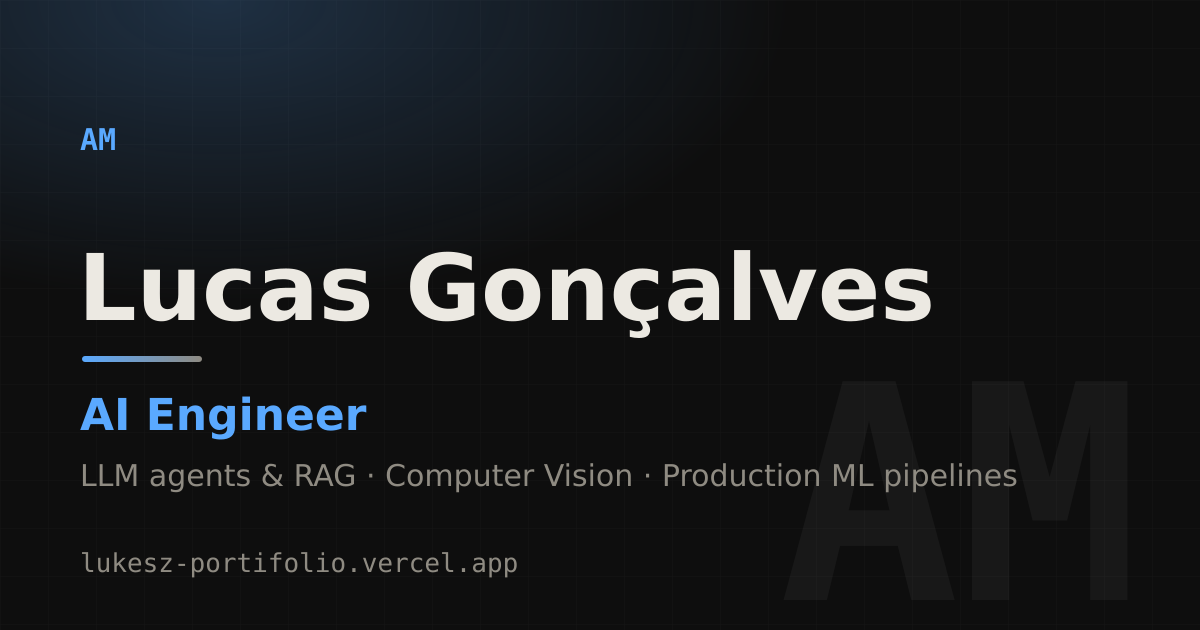
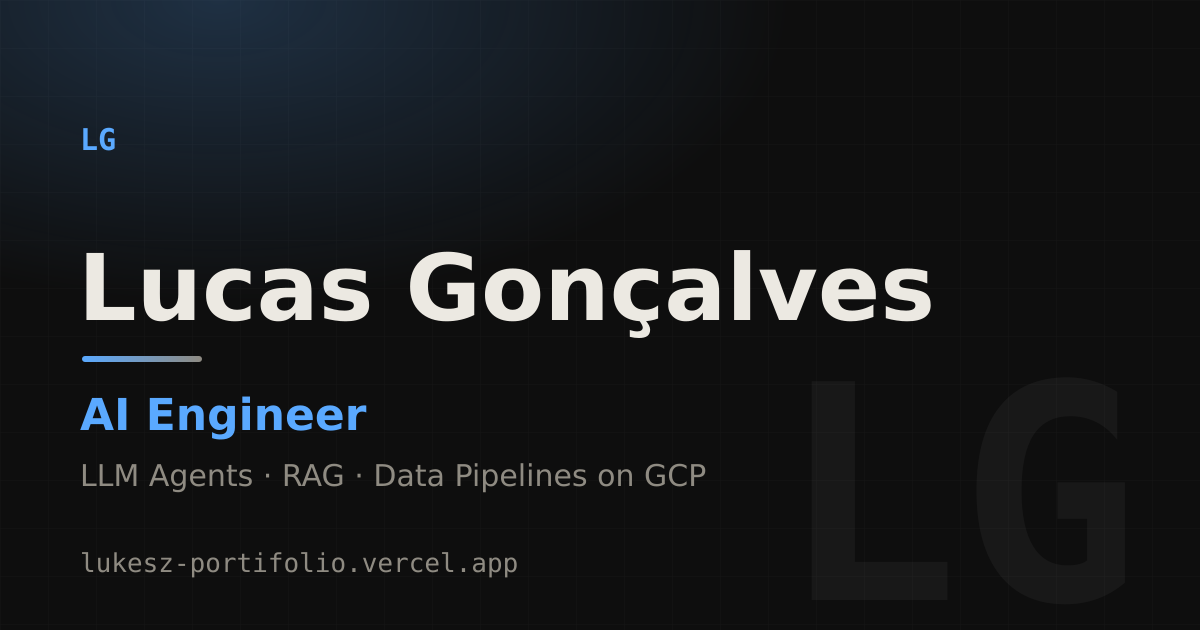
content: sync the experience timeline, resume and share card with the audited career material
Rewrite the four roles from the audited set (Unipac scope and pilot, PM Accelerator
context, Jacto and CIAg figures), update the about paragraph, replace my_resume.pdf
with the current Resumido, and fix the share card (LG monogram, headline-matched
tagline, no 'production' claim).

Changed region(s): [[0.1233, 0.7238, 0.8633, 0.7841], [0.0617, 0.181, 0.0925, 0.2413]]

diff --git a/src/data/experience.ts b/src/data/experience.ts
@@ -31,13 +31,14 @@ export const timeline: TimelineItem[] = [
     period: 'Sep 2026 to Present',
     location: 'Pompeia, Brazil',
     description:
-      'Unipac is a packaging and polymer processing manufacturer within the Jacto Group. The work is an internal AI platform that turns an approved product specification into a working full-stack application, built around a pipeline of 7 specialist agents.',
+      'Unipac is a packaging and polymer processing manufacturer within the Jacto Group. The work is UNIPAC AI Studio, an internal AI platform that turns an approved specification into a full-stack application.',
     highlights: [
-      'Built an internal multi-agent platform, served from Google Cloud Run, that turns an approved product specification into a working full-stack application, orchestrating 7 specialist agents through a coordinator that delegates rather than writes code. It has generated 20+ applications end to end, each submitted to 13 deterministic verifiers before release.',
-      'Engineered the release gate so the language model cannot approve its own output: the security verdict is derived from deterministic scanner receipts run in a short-lived isolated virtual machine and tied to a checksum of the delivered code, applied by a pure function the pipeline cannot bypass and locked by 32 contract tests, so a model cannot sign off on its own output.',
-      'Executed every piece of generated code inside a per-job micro virtual machine with its own kernel rather than a normal container, on the reasoning that code written by a model is untrusted input. The stronger isolation also measured faster than starting a container per command.',
-      'Designed a 7-layer containment stack for runaway agent behavior, each layer added in response to a real incident, including one tool called 72 times in a loop and a job stalled for 30 minutes because each re-delegation reset its own budget.',
-      'Eliminated a path that was shipping prompts, specifications and error traces containing authorization headers to a third-party service in clear text.',
+      'Re-architected a multi-agent code-generation platform by replacing its language-model orchestrator with a deterministic scheduler: up to 12 specialist agent phases in 4 waves, with parallel waves, phases declared by the architect agent and contracts and DevOps files generated from templates. Deployed to Cloud Run in a development environment.',
+      'Piloted the platform on 22 projects submitted to InovaSkill 2026: it blocked 21 of 21 severe findings before delivery, and 12 of 14 end-to-end runs passed.',
+      'Replaced the model\'s self-reported security verdict with a deterministic gate: Semgrep (20 custom rules) and Trivy run in a read-only sandbox without network access, and a pure policy function that blocks critical and high findings judges the resulting receipt, covered by 154 tests.',
+      'Built a 9-layer guardrail stack for runaway agents (session, tool-batch and delegation caps, idempotent loop breaker, crash guard, retry, fallback, empty-reply guard, circuit breaker) after one model response emitted 2,179 identical tool calls.',
+      'Designed evidence-driven auto-remediation that routes each blocking finding to the specialist agent that owns the file and re-invokes it with the failing tool output, capped at 3 rounds per gate and 6 per run. It cleared 14 of 21 gate failures across 13 runs without human intervention.',
+      'Built a verification layer that records 33 verdicts per generated app, 13 of them blocking completion, and prevented personal data and credentials from reaching a third-party tracing service by masking them before export.',
     ],
   },
   {
@@ -47,13 +48,14 @@ export const timeline: TimelineItem[] = [
     period: 'Jun 2026 to Aug 2026',
     location: 'Miami, United States (remote)',
     description:
-      'A US-based ed-tech startup building an AI-powered college-advising platform. I worked on the retrieval and grounding core, owning the retrieval, prompt, conversation and routing services.',
+      'PM Accelerator hosts Collegiary, an ed-tech startup. The work is an AI college-advising platform, and I drove its retrieval and grounding core.',
     highlights: [
-      'Architected the hybrid retrieval engine from scratch with no RAG framework over a corpus of roughly 1,800 US institutions, ranking exact institution-name matches above vector similarity on purpose, because someone who types a school name wants that school and blending the two scores buries it.',
-      'Mitigated hallucination structurally rather than through prompt wording: the system refuses before spending an API call when nothing was retrieved, and a verifier re-reads each answer for figures no source record supports, including one institution\'s statistic quoted under another institution\'s name.',
-      'Enforced per-student data isolation with an explicit predicate on every query after finding that database-level row security was bypassed by the service connection, and guaranteed coverage with a test that reads the source code itself and fails the build if any student-scoped query lacks an isolation case.',
-      'Scaled the backend suite to 1,149 automated tests at a test-to-code ratio above 1.75 to 1, and cut the continuous-integration install from roughly 800MB to 90MB by serving the same embedding model through a lighter runtime.',
-      'Delivered 19 of 29 tracked workstream items on a weekly cadence inside a globally distributed team spanning multiple time zones, coordinating asynchronously through written specifications and alignment checkpoints.',
+      'Built from scratch, with no RAG framework, a hybrid retrieval engine over roughly 1,800 US institutions: exact name and alias matches rank above vector similarity on purpose, because someone who types a school name wants that school and blending the two scores buries it.',
+      'Eliminated a class of hallucination structurally rather than through prompt wording: the system refuses before spending an API call when nothing was retrieved, and a verifier flags figures no source record supports, including one institution\'s statistic quoted under another institution\'s name. The gate and verifier are covered by 191 automated tests.',
+      'Rewrote the two-tier model router, which had sent 0 of 6 live questions to the cheap tier, around deterministic rules with a token-capped cheap-model tiebreak, covered by 27 routing tests.',
+      'Established per-student data isolation with an explicit predicate on every query after finding that row-level security was bypassed by the service connection, and guaranteed coverage with a test that reads the source code and fails the build if any student-scoped read lacks an isolation case (55 reads, 174 cases).',
+      'Scaled the backend suite to 1,149 automated tests at a test-to-code ratio of 1.75 to 1, and cut the CI install from roughly 800MB to 90MB by serving the same embedding model through ONNX.',
+      'Delivered 19 of 29 tracked board items on a weekly cadence against written specifications, and was recommended in writing by the company\'s founder.',
     ],
   },
   {
@@ -63,13 +65,13 @@ export const timeline: TimelineItem[] = [
     period: 'Nov 2024 to Jun 2026',
     location: 'Pompeia, Brazil',
     description:
-      'Jacto is a Brazilian manufacturer of agricultural machinery that sells in more than 100 countries and employs over 3,000 people, with after-sales operations at industrial scale. I worked where the business side meets engineering.',
+      'Jacto is a global manufacturer of agricultural machinery with more than 5,000 employees, operating in more than 100 countries. I worked in after-sales data and automation, where the business side meets engineering.',
     highlights: [
-      'Cut the rate of incorrectly returned field parts from around 20% in 2025 to under 5% in 2026, closing June 2026 at 0% against a 6% Six Sigma target, which removed recurring freight costs from returns that should never have shipped.',
-      'Automated a previously manual data migration: extracted hundreds of dealership address records from a foreign government address-classification system, transliterated and cleaned them by region, and produced load-ready files for Salesforce, removing up to 5 hours a day of manual collection and spreadsheet formatting.',
-      'Designed a computer-vision system (now in internal review) that audits discarded parts end to end: it checks each photo meets the standard, reads the printed slip and cross-checks it against the system record, and recognizes the part, paired with an in-app camera that locks file names and stamps time and location so the evidence holds up.',
-      'Identified 10+ usability problems as the business-to-developer bridge on an internal parts-return tool, validating rule changes across testing rounds, moving the workflow from manual entry to mostly review.',
-      'Audited 150+ main dealerships at home and abroad, reconciling the field-parts return flow and tracking millions of reais in parts movement, and processed write-offs through audits done both on site and remotely.',
+      'Co-led a two-person effort that cut the incorrect field-parts return rate from about 20% in 2025 to under 5% in 2026, closing June 2026 at 0% against a 6% Six Sigma target. The process was standardized into an approved manual adopted across a network of more than 150 dealerships, avoiding an estimated R$100 to 135K in freight in the first half of 2026.',
+      'Automated fiscal-address collection from a foreign government registry in Python (Selenium, pandas): one run walks all 99 regional pages, translates the hierarchy from Russian to English and exports a load-ready workbook for Salesforce, removing up to 5 hours a day of manual work.',
+      'Audited the field-parts return flow across more than 150 master dealerships through on-site and remote audits, in a flow of more than 13,000 parts and about R$6.5M per semester, and codified the findings in a rules manual that corrected more than half of the process divergences.',
+      'Tracked and validated more than 20 improvements with the development team on the internal parts-return system, starting from 10+ mapped usability defects, including a four-system data sync and a redesign that cut record loading from 5 to 10 minutes to under 1 minute.',
+      'Proposed a computer-vision disposal audit, specified end to end and submitted for internal approval: OCR cross-checks a photographed receipt against the system record, the part is identified automatically, and an in-app camera locks file name, timestamp and location so the evidence can be verified.',
     ],
   },
   {
@@ -79,10 +81,10 @@ export const timeline: TimelineItem[] = [
     period: 'Feb 2024 to Oct 2024',
     location: 'Pompeia, Brazil',
     description:
-      'A regional innovation program. The work was an internal natural-language assistant over a domain-specific knowledge base, and it is the earliest language-model work in this timeline.',
+      'CIAg is an agribusiness innovation center within the Jacto Group. The Synapse program built an LLM assistant for students and faculty, and it is the earliest language-model work in this timeline.',
     highlights: [
-      'Led development of a natural-language assistant built on a language model (Python, FastAPI, OpenAI API) with contextual retrieval, keeping answers grounded in a region-specific knowledge base.',
-      'Implemented the REST API layer connecting the application to the language model, covering request handling and integration with the retrieval step.',
+      'Led a team of 2 to 3 developers building an LLM assistant for students and faculty (Python, FastAPI, OpenAI API) that answers from a base of agronomic technical documents through contextual RAG. The assistant has since been discontinued.',
+      'Designed the REST API layer between the application and the language model, covering request handling and the integration with the retrieval step.',
     ],
   },
   {

diff --git a/src/data/about.ts b/src/data/about.ts
@@ -14,7 +14,7 @@ export const about = {
   paragraphs: [
     'I am an AI Engineer. I build retrieval-augmented and agentic language-model systems in Python, and applied computer vision that runs on the device rather than in a data center. The common thread is not the model. It is everything placed around the model so that someone can act on what it says.',
     'I learned the engineering in industry rather than in a lab. A year and a half at Jacto, one of the world\'s largest manufacturers of agricultural machinery, put me next to after-sales operations at industrial scale and taught me to read a problem from the people who have it before reaching for a model. That is a habit rather than a sector, and it travels to any domain where a wrong answer is paid for by someone outside the room. I finish a technology degree in Big Data for Agribusiness at Fatec Shunji Nishimura in November 2026.',
-    'I work at Unipac, part of the Jacto Group, on the data and AI team: data pipelines on Google Cloud with BigQuery and Dataflow, and an internal platform that turns an approved product specification into a working application through 7 specialist agents and 13 deterministic verifiers. Most of my time on that platform goes to the part after the model works: containment, verification, and the boundaries that decide what generated code is allowed to reach.',
+    'I work at Unipac, part of the Jacto Group, on the data and AI team: data pipelines on Google Cloud with BigQuery and Dataflow, and an internal platform that turns an approved product specification into a working application through up to 12 specialist agent phases in four deterministic waves, with 13 blocking verdicts out of 33 recorded per application. Most of my time on that platform goes to the part after the model works: containment, verification, and the boundaries that decide what generated code is allowed to reach.',
     'The same holds in the research and the personal work. A confidence score is only useful if a non-expert can read it at a glance. A safety threshold is worth what the sweep behind it is worth, not what it feels like it should be. A number is worth what its dataset, its split and its baseline make it worth, which is why every record on this page states all three.',
     'That includes retracting my own results. When an evaluation of mine turned out to be scoring itself, the figures came down and the explanation stayed up. The records here carry the withdrawals next to the results, because a reader who checks should find the same answer I did.',
     'I am looking for remote and international AI Engineer roles where domain understanding and production engineering are both part of the job.',
